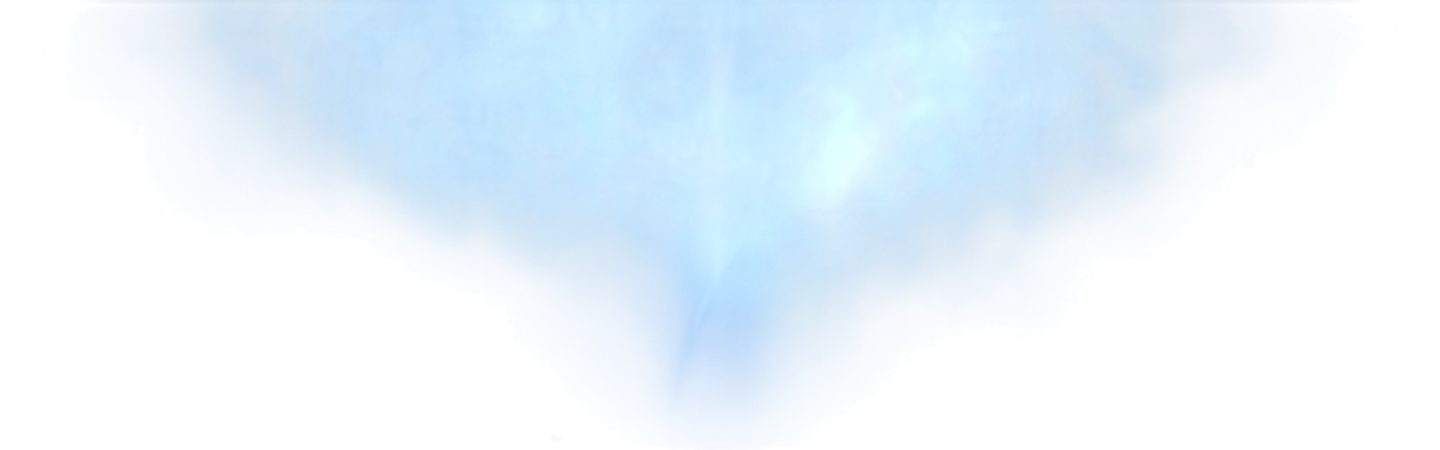
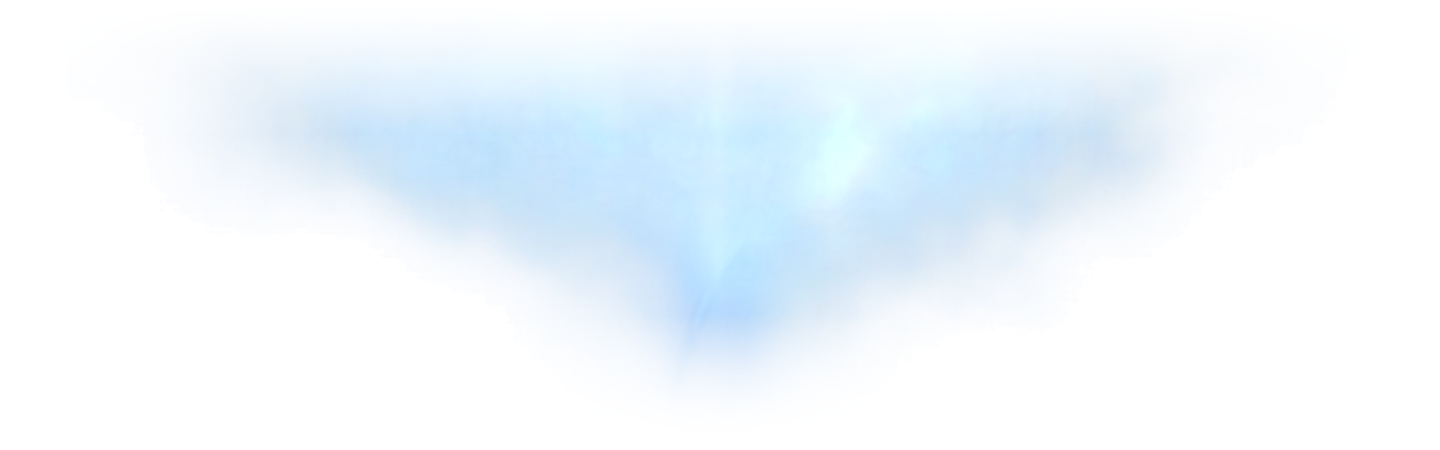
hero fixed

Changed region(s): [[0.0938, 0.0, 0.875, 0.2178], [0.4688, 0.8089, 0.5312, 0.9022]]

diff --git a/js/hero.js b/js/hero.js
@@ -36,15 +36,22 @@
  * per child — nothing inside it can ever drift apart from anything
  * else inside it, at any scroll position, by construction.
  *
- * Beat 3 is a single register-and-reveal, not a crossfade: the text
- * overlay (cover_text_overlay.png — the real Nature masthead/cover
- * text with the artwork cut out) fades and settles in over the still-
- * live engine, and the four --bg bars close to the cover's trim size,
- * at the same time. cover_art.jpeg / cover_nature.png are not used
- * here at all — the live disk showing through the overlay's negative
- * space *is* the cover. (cover_nature.png still backs the separate,
- * fully static prefers-reduced-motion fallback in index.html — a
- * different code path, not part of this reveal.)
+ * Beat 3 has two parts, both monotonic, neither reversing the other:
+ *   1. Register-and-reveal — the text overlay (cover_text_overlay.png,
+ *      the real Nature masthead/cover text with the artwork cut out)
+ *      fades and settles in over the still-live engine, and the four
+ *      --bg bars close to the cover's trim size. No flat image is
+ *      involved yet — the live disk showing through the overlay's
+ *      negative space *is* the cover at this point.
+ *   2. Tail-end crossfade — only once part 1 is fully assembled, the
+ *      live composition (stage + engine, the overlay riding along
+ *      inside engine) fades to 0 opacity while cover_nature.png (the
+ *      same 880×1168 asset the overlay was cut from, so it shares its
+ *      exact registration) fades to 1 — a single dissolve, freezing
+ *      the living scene into the printed artifact, for a pixel-clean
+ *      final frame. Exactly one crossfade, at the very end; nothing
+ *      it touches was visible-and-opaque at the same time as anything
+ *      else beforehand, so this never "triples."
  */
 
 // --- ANIMATED PROPERTIES (scroll-driven timeline only — the ambient
@@ -73,14 +80,23 @@
 //                                          through all of Beat 2, so
 //                                          the object's SIZE is truly
 //                                          still while the dust flies)
-//   overlay opacity              0 → 1     (Beat 3 window only)
-//   overlay scale                1.15 → 1  (Beat 3 window only)
-//   bar scaleX (left/right)      0 → 1     (Beat 3 window only)
-//   bar scaleY (top/bottom)      0 → 1     (Beat 3 window only)
-//   caption opacity              0 → 1     (Beat 3 window only)
-//   caption yPercent             4 → 0     (Beat 3 window only)
+//   overlay opacity              0 → 1     (assembly window)
+//   overlay scale                1.15 → 1  (assembly window)
+//   bar scaleX (left/right)      0 → 1     (assembly window)
+//   bar scaleY (top/bottom)      0 → 1     (assembly window)
+//   caption opacity              0 → 1     (assembly window)
+//   caption yPercent             4 → 0     (assembly window)
+//   stage opacity                1 → 0     (tail crossfade, after
+//                                          assembly is complete)
+//   engine opacity                1 → 0     (tail crossfade — carries
+//                                          the overlay down with it,
+//                                          since it's engine's child)
+//   nature-cover opacity          0 → 1     (tail crossfade)
 //
-// Nothing here is ever animated back toward an earlier value.
+// Nothing here is ever animated back toward an earlier value. Note
+// bg_environment's scale is NOT in this table — it's a fixed, one-
+// time computed value (computeEdgeSafeScale), never animated over
+// scroll at all, so it can't violate monotonicity by definition.
 
 function cssNum(name, el = document.documentElement) {
   return parseFloat(getComputedStyle(el).getPropertyValue(name));
@@ -106,12 +122,14 @@ export async function initHero() {
 
   const pin = hero.querySelector('[data-hero-pin]');
   const stage = hero.querySelector('[data-hero-stage]');
+  const bg = hero.querySelector('[data-hero-bg]');
   const engine = hero.querySelector('[data-hero-engine]');
   const jetLower = hero.querySelector('[data-hero-jet-lower]');
   const jetUpper = hero.querySelector('[data-hero-jet-upper]');
   const jetGlow1 = hero.querySelector('[data-hero-jetglow-1]');
   const jetGlow2 = hero.querySelector('[data-hero-jetglow-2]');
   const overlay = hero.querySelector('[data-hero-overlay]');
+  const natureCover = hero.querySelector('[data-hero-nature]');
   const haze = Array.from(hero.querySelectorAll('.hero-layer--haze'));
   const copy = hero.querySelector('[data-hero-copy]');
   const scrollcue = hero.querySelector('[data-hero-scrollcue]');
@@ -146,6 +164,43 @@ export async function initHero() {
   const isMobile = window.matchMedia('(max-width: 700px)').matches;
   const parallaxScale = isMobile ? 0.6 : 1;
   const dyn = (base) => base * parallaxScale;
+
+  // Single source of truth for how far each parallax layer travels —
+  // read by both the timeline below AND computeEdgeSafeScale, so the
+  // edge-safety headroom is always derived from the actual motion,
+  // never a re-typed guess that could drift out of sync with it.
+  // (parallaxScale only ever shrinks these on mobile, so the base,
+  // unscaled number is always the worst case across breakpoints.)
+  const DRIFT = {
+    stage: 4,
+    engine: 3,
+    haze1: { x: -62, y: 80 },
+    haze2: { x: 66, y: 92 },
+    haze3: { x: 56, y: -72 },
+    haze4: { x: -70, y: -88 },
+  };
+
+  /**
+   * Edge-safety rule: any layer that parallaxes must be scaled up
+   * enough that its own image edge never enters the viewport, at any
+   * scroll position — this is what a too-tight bg_environment scale
+   * used to violate (a hard horizontal seam as its top edge slid into
+   * frame). General formula: for a layer whose box exactly fills its
+   * (possibly oversized) container and that travels up to
+   * maxDriftPercent of that container's own size, the scale needed so
+   * (scaled_size − container_size)/2 stays clear of that travel by at
+   * least marginPercent more is:
+   *
+   *   scale = 1 + 2 × (maxDriftPercent + marginPercent) / 100
+   *
+   * Purely percentage-based, so it doesn't need — and doesn't change
+   * with — measured pixels; it's still recomputed on resize below
+   * simply because it lives inside buildScrollSequence, which resize
+   * already re-runs.
+   */
+  function computeEdgeSafeScale(maxDriftPercent, marginPercent = 6) {
+    return 1 + (2 * (Math.abs(maxDriftPercent) + marginPercent)) / 100;
+  }
 
   /**
    * .hero-engine's CSS size (hero.css) is set so that scale:1 is
@@ -190,10 +245,19 @@ export async function initHero() {
 
   function buildScrollSequence() {
     const k1 = computeEngineStartScale();
+    const bgScale = computeEdgeSafeScale(DRIFT.stage);
 
     gsapLib.set(stage, { xPercent: -50, yPercent: -50 });
+    gsapLib.set(bg, { scale: bgScale });
     gsapLib.set(engine, { xPercent: -50, yPercent: -50, scale: k1 });
     gsapLib.set(overlay, { opacity: 0, scale: 1.15 });
+    // .hero-engine settles at yPercent -50 + dyn(DRIFT.engine), not
+    // dead-center — its constant "weak drift" offset never animates
+    // back to 0 (that would violate monotonicity). Pre-positioning
+    // natureCover to that same offset — rather than true center — is
+    // what makes it register with the live overlay it's crossfading
+    // over instead of jumping a few percent of the frame's height.
+    gsapLib.set(natureCover, { xPercent: -50, yPercent: -50 + dyn(DRIFT.engine), opacity: 0 });
     gsapLib.set([bars.left, bars.right], { scaleX: 0 });
     gsapLib.set([bars.top, bars.bottom], { scaleY: 0 });
     gsapLib.set(copy, { opacity: 1, yPercent: 0 });
@@ -207,30 +271,43 @@ export async function initHero() {
 
     // The dust: strong, fast, each corner its own direction — this is
     // the scene's dynamism. Background drifts far slower beneath it.
-    tl.to(stage, { yPercent: -50 + dyn(4), duration: 1 }, 0);
-    tl.to('.haze-1', { xPercent: dyn(-62), yPercent: dyn(80),  duration: 1 }, 0);
-    tl.to('.haze-2', { xPercent: dyn(66),  yPercent: dyn(92),  duration: 1 }, 0);
-    tl.to('.haze-3', { xPercent: dyn(56),  yPercent: dyn(-72), duration: 1 }, 0);
-    tl.to('.haze-4', { xPercent: dyn(-70), yPercent: dyn(-88), duration: 1 }, 0);
+    tl.to(stage, { yPercent: -50 + dyn(DRIFT.stage), duration: 1 }, 0);
+    tl.to('.haze-1', { xPercent: dyn(DRIFT.haze1.x), yPercent: dyn(DRIFT.haze1.y), duration: 1 }, 0);
+    tl.to('.haze-2', { xPercent: dyn(DRIFT.haze2.x), yPercent: dyn(DRIFT.haze2.y), duration: 1 }, 0);
+    tl.to('.haze-3', { xPercent: dyn(DRIFT.haze3.x), yPercent: dyn(DRIFT.haze3.y), duration: 1 }, 0);
+    tl.to('.haze-4', { xPercent: dyn(DRIFT.haze4.x), yPercent: dyn(DRIFT.haze4.y), duration: 1 }, 0);
 
     // The object: weak drift only, across the whole scroll — its
     // SIZE stays fixed through all of Beat 2 (no scale tween here),
     // which is what actually reads as "still" while the dust flies.
-    tl.to(engine, { yPercent: -50 + dyn(3), duration: 1 }, 0);
+    tl.to(engine, { yPercent: -50 + dyn(DRIFT.engine), duration: 1 }, 0);
 
-    // Beat 3: the real Nature text settles onto the still-live scene,
-    // the engine eases from its Beat-1 scale-up down to 1 (its
-    // frame-matching resting size), and the frame closes to the
-    // cover's trim size — all concurrent, all monotonic, no crossfade
-    // to any flat image. Confining the engine's scale to this window
-    // (rather than spreading it across the whole scroll) is what
-    // keeps it feeling anchored during Beat 2 instead of continuously
-    // zooming — the one moment it resizes is this single assembly.
+    // Beat 3a — assembly: the real Nature text settles onto the
+    // still-live scene, the engine eases from its Beat-1 scale-up
+    // down to 1 (its frame-matching resting size), and the frame
+    // closes to the cover's trim size — all concurrent, all
+    // monotonic, no crossfade yet. Confining the engine's scale to
+    // this window (rather than spreading it across the whole scroll)
+    // is what keeps it feeling anchored during Beat 2 instead of
+    // continuously zooming — the one moment it resizes is here.
     tl.to(engine, { scale: 1, duration: 0.2 }, 0.8);
     tl.to(overlay, { opacity: 1, scale: 1, duration: 0.2 }, 0.8);
     tl.to([bars.left, bars.right], { scaleX: 1, duration: 0.2 }, 0.8);
     tl.to([bars.top, bars.bottom], { scaleY: 1, duration: 0.2 }, 0.8);
     tl.to(caption, { opacity: 1, yPercent: 0, duration: 0.1 }, 0.9);
+
+    // Beat 3b — tail crossfade: only once assembly (above) is done,
+    // one single dissolve from the live composition to the real
+    // cover_nature.png. Positioned at timeline time 1.0 — i.e. after
+    // every tween above has finished — this simply extends the
+    // timeline's total duration rather than editing any position
+    // above, so it can't disturb the already-verified assembly
+    // timing; ScrollTrigger just remaps the new, slightly longer
+    // total onto the same 0→1 scroll range. engine's fade carries the
+    // overlay down with it (its child), so only two opacities are
+    // ever in play here — never three layers stacked at once.
+    tl.to([stage, engine], { opacity: 0, duration: 0.15 }, 1.0);
+    tl.to(natureCover, { opacity: 1, duration: 0.15 }, 1.0);
 
     st = ScrollTrigger.create({
       id: 'hero-main',

diff --git a/css/hero.css b/css/hero.css
@@ -39,6 +39,8 @@
                                     same square canvas, see below)
         .hero-frame-bar × 4    margins that close in to the cover's
                                 trim size, concurrent with the overlay
+        .hero-layer--nature    cover_nature.png — the tail-end
+                                crossfade target, once assembly is done
         .hero-copy             eyebrow / title / dek
         .hero-scrollcue
         .hero-caption
@@ -99,10 +101,11 @@
   width: 100%;
   height: 100%;
   object-fit: cover;
-  /* Headroom so bg's own edge can never enter frame while the stage
-     parallaxes — this is what caused the horizontal-seam glitch when
-     it was too tight in an earlier pass. */
-  transform: scale(1.35);
+  /* Scale is set in hero.js (computeEdgeSafeScale), not here — it's
+     computed from the layer's actual max parallax displacement, not
+     a guessed constant, and applying it via GSAP alongside the same
+     element's scroll-driven transform avoids a separate CSS transform
+     fighting the JS one. See hero.js for the formula and reasoning. */
 }
 
 .hero-layer--haze {
@@ -225,6 +228,30 @@
   width: calc(100% * var(--cover-ratio-w) / var(--cover-ratio-h));
   object-fit: fill;
   opacity: 0;
+}
+
+/* ---------------------------------------------------------------
+   The published cover — cover_nature.png, the same 880×1168 asset
+   cover_text_overlay.png was cut from, so it shares that overlay's
+   exact registration. Sized/centered to --frame-w/--frame-h directly
+   (a frame-level sibling, not nested in .hero-engine) so it stays put
+   at its final size while the engine's own scale settles underneath
+   it — the tail-end crossfade (hero.js) fades this in as the live
+   stage+engine composition fades out, once assembly is complete.
+------------------------------------------------------------------ */
+.hero-layer--nature {
+  top: 50%;
+  left: 50%;
+  width: var(--frame-w);
+  height: var(--frame-h);
+  object-fit: cover;
+  opacity: 0;
+  /* No CSS transform here — hero.js sets xPercent/yPercent (matching
+     .hero-engine's own centering pattern) instead of a static
+     translate(-50%,-50%), because .hero-engine sits a few percent off
+     dead-center by the time this crossfades in (its constant "weak
+     drift" offset, settled). This element is pre-positioned to that
+     same offset so the two register instead of visibly jumping. */
 }
 
 /* ---------------------------------------------------------------

diff --git a/index.html b/index.html
@@ -79,6 +79,15 @@
       <div class="hero-frame-bar hero-frame-bar--top" data-hero-bar="top"></div>
       <div class="hero-frame-bar hero-frame-bar--bottom" data-hero-bar="bottom"></div>
 
+      <!-- The published cover, once assembly (overlay + bars) is
+           complete: a single tail-end crossfade from the live
+           stage+engine composition to this real, pixel-clean asset —
+           see hero.js. Same source crop as the text overlay above, so
+           it registers on the same pixels rather than jumping. -->
+      <img class="hero-layer hero-layer--nature" data-hero-nature
+           src="assets/cover_nature.png"
+           alt="Nature magazine cover, 12 March 2026: “Power Sourced — the extreme physics at the heart of superluminous supernovae,” featuring the SN 2024afav accretion disk and relativistic jet." />
+
       <div class="hero-copy" data-hero-copy>
         <p class="hero-eyebrow">SN 2024AFAV</p>
         <h1 class="hero-title">The supernova that chirps.</h1>
@@ -98,10 +107,9 @@
     </div>
 
     <!-- Reduced-motion fallback: no pin, no scroll-jacking, no
-         animation at all. This is the one place cover_nature.png is
-         still used — a flat, static, maximally-robust preview for
-         users who've asked for no motion, entirely separate from the
-         live text-overlay reveal above. -->
+         animation at all — a flat, static, maximally-robust preview
+         (also cover_nature.png) for users who've asked for no motion,
+         entirely separate from the live scroll sequence above. -->
     <div class="hero-static-resolve">
       <div class="hero-cover-frame--static">
         <img src="assets/cover_nature.png"
